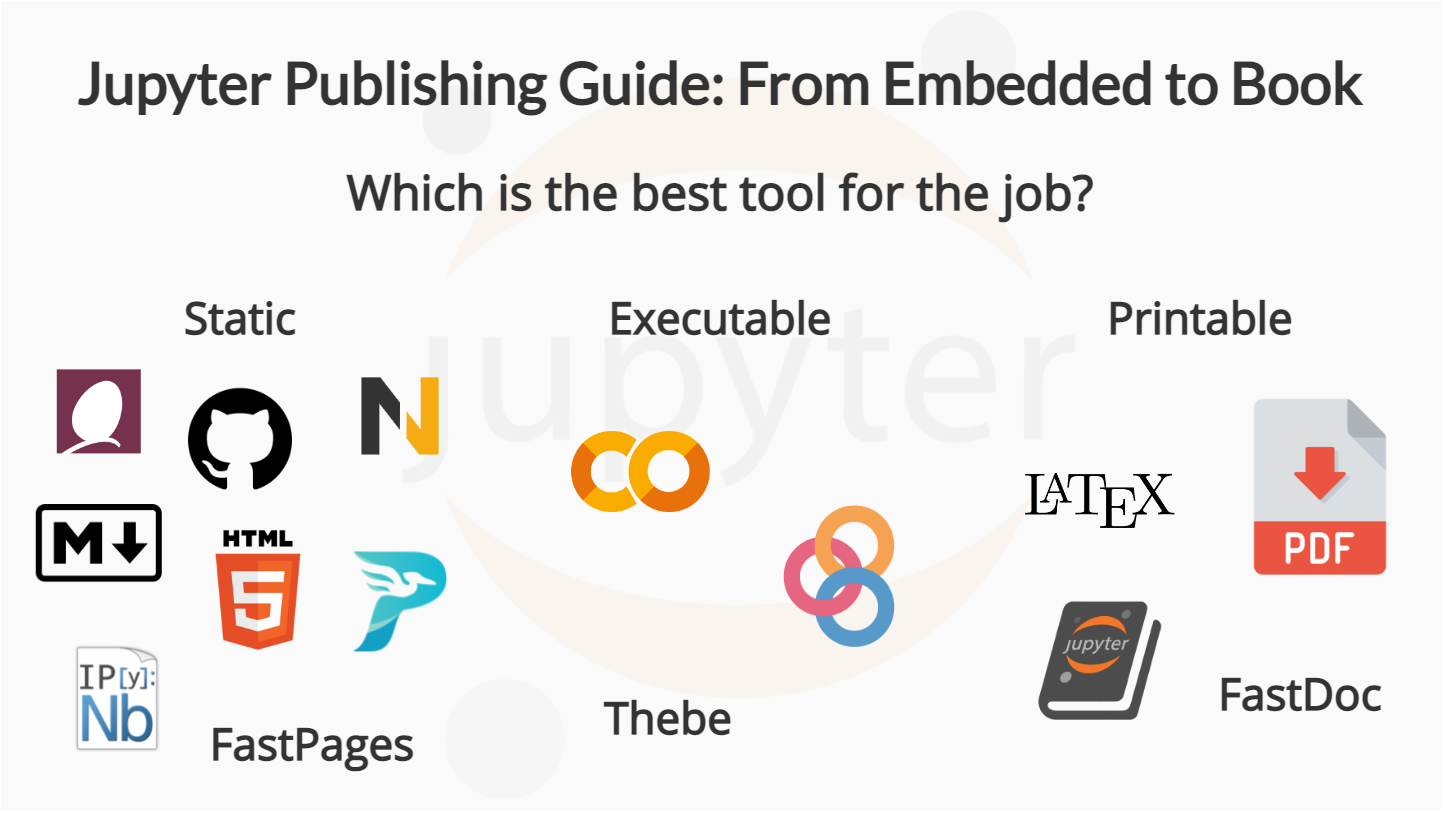
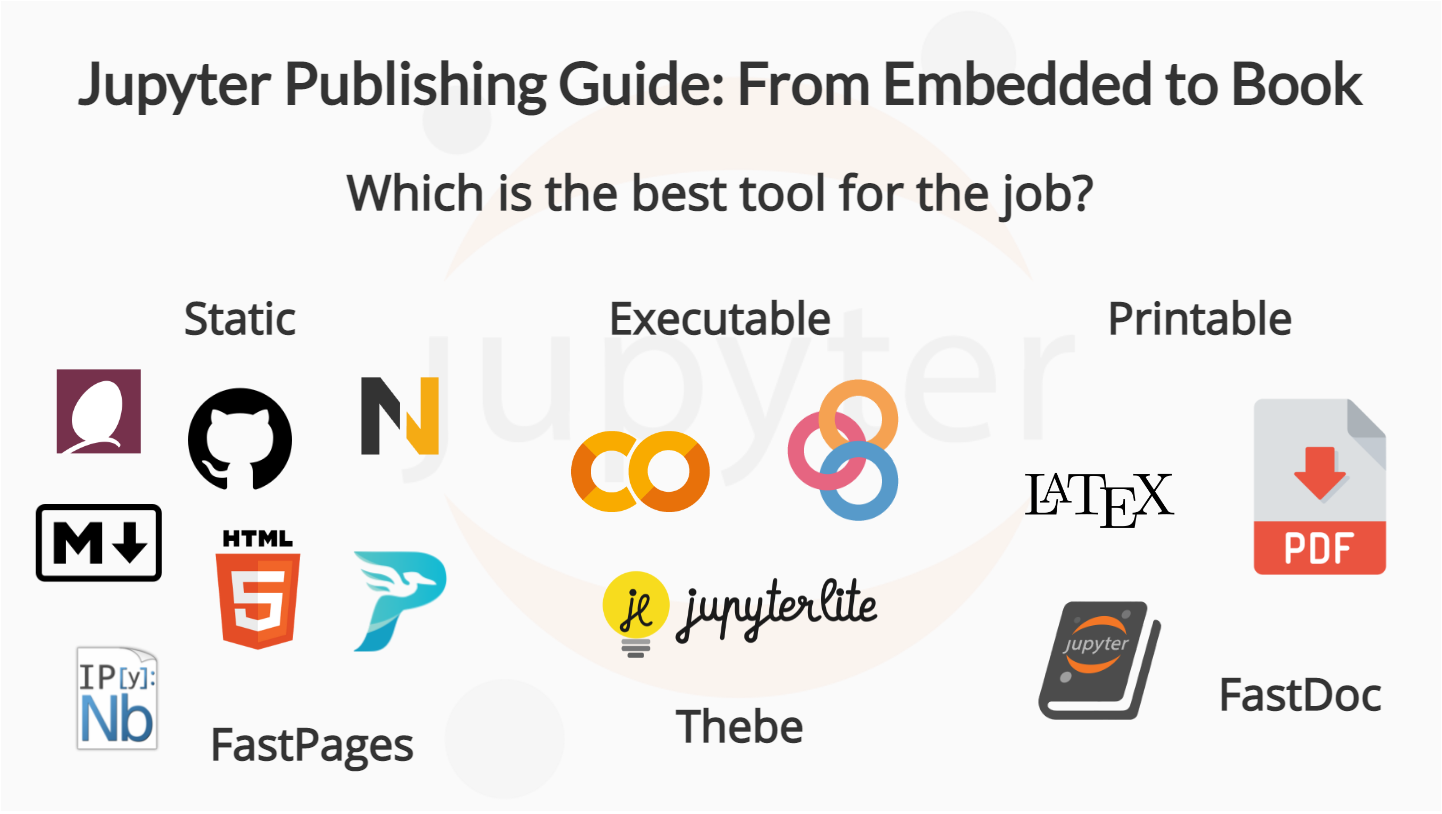
Update Jupyter Publishing

diff --git a/blog/2021-jupyter-publish.md b/blog/2021-jupyter-publish.md
@@ -431,6 +431,52 @@ indirect.
 environment, meaning that there are no risks of running insecure code, neither
 for the writer or the reader.
 
+## Jupyter Lite
+
+[![Static Site Generators]({static}images/jupyter-publishing/jupyter-lite-thumbnail.png){: .narrow .b-lazy width=900 data-src=/blog/images/jupyter-publishing/jupyter-lite.png }](/blog/images/jupyter-publishing/jupyter-lite.png)
+
+[Jupyter Lite](https://github.com/jupyterlite/jupyterlite){: target="_blank"}
+is a young (First commit on the 21st March 2021) yet popular tool (1.6k stars)
+developed by the Jupyter team. The tool is still *unofficial* as per their docs
+but, managed to achieve something that was never done before: **Jupyter in the Browser
+without a Backend**. That means that having only a static server could bring a
+whole Jupyter Notebook/Lab environment.
+
+This works thanks to [Mozilla's Pyodide](https://pyodide.org/en/stable/){: target="_blank"},
+this other project ships the scientific Python stack compiled to WebAssembly
+and thus a backend is not needed as everything happens in the front-end.
+
+### Advantages
+
+- One of the most transparent experiences for Executable Jupyter Notebooks.
+- It does not require a setup for the reader.
+- The data is persisted to the browser localstorage.
+- It has multiple kernels (Python and Javascript) support built-in.
+
+### Disadvantages
+
+- It requires some setup for the writer.
+- It is a Notebook-only environment, it does not integrate with the existing
+  website or platform.
+- Configuration is not as straightforward as with other solutions.
+- It is still in Alpha, meaning breaking changes can be introduced without
+  prior notice. And the performance might be unstable (crashes).
+- Slower than solutions with a dedicated back-end.
+- Since there is no dedicated Back-End, performance might be compromised in
+  low-end PCs.
+- Good with the defaults but, having a custom configuration may require
+  additional setup.
+
+### When to use
+
+For proofs of concepts without complex dependencies, good internet connection,
+and modern hardware. This might be a great choice. Uses cases might be MOOCs or
+other events where participants need Jupyter and no dedicated server is
+provided.
+
+However, it is not recommended when a stable and robust solution is needed.
+
+
 ## Embedded Solution
 
 [![Static Site Generators]({static}images/embed_interactive_notebooks/embed-interactive-notebooks_headerimage-thumbnail.png){: .b-lazy width=1401 data-src=/blog/images/embed_interactive_notebooks/embed-interactive-notebooks_headerimage.png }](/blog/images/embed_interactive_notebooks/embed-interactive-notebooks_headerimage.png)
@@ -728,6 +774,26 @@ as the ones presented so far.
   write the [O'Reilly FastAI Book](https://github.com/fastai/fastbook/){: target="_blank"}.
   Not in the list because the project is not currently active (Latest release 
   October 2020) and it is not as widespread as Jupyter-Book.
+
+- [Starboard](https://starboard.gg/){: target="_blank"} is an online service
+  that provides literal notebooks (not Jupyter) with Jupyter-like capabilities
+  such as Code and Text cells. It runs completely on the browser (with Pyodide)
+  and its goal is to make notebooks easier to share. Not in the list because it
+  is its own format, not Jupyter (although Jupyter import is *possible*), and
+  because it is in early development.
+
+- [Github Codespaces](https://github.com/features/codespaces){: target="_blank"}:
+  is a Github project to work online in a Visual Studio Code hosted on the
+  browser. At the time of this writing, it can be used in any repository by
+  pressing "." (dot), one can navigate and edit the files with the free tier.
+  To attach a compute instance, a paid service is offered to selected
+  beta-tester organizations. Not in the list because it does not work with
+  Jupyter out of the box and it only has a paid solution.
+
+- [Cocalc](https://cocalc.com/){: target="_blank"}: a tool very similar to
+  Google Colab but with a less powerful free tier plan. It does have unique
+  features such as Chat Rooms and collaborative editing. Not in the list
+  because there is a feature overlap with Colab and it is not as widespread. 
 
 - [Spell.ml](https://spell.ml/){: target="_blank"}: it is a service to provide
   workspaces to run Jupyter Notebooks. It has CPU support for free with
